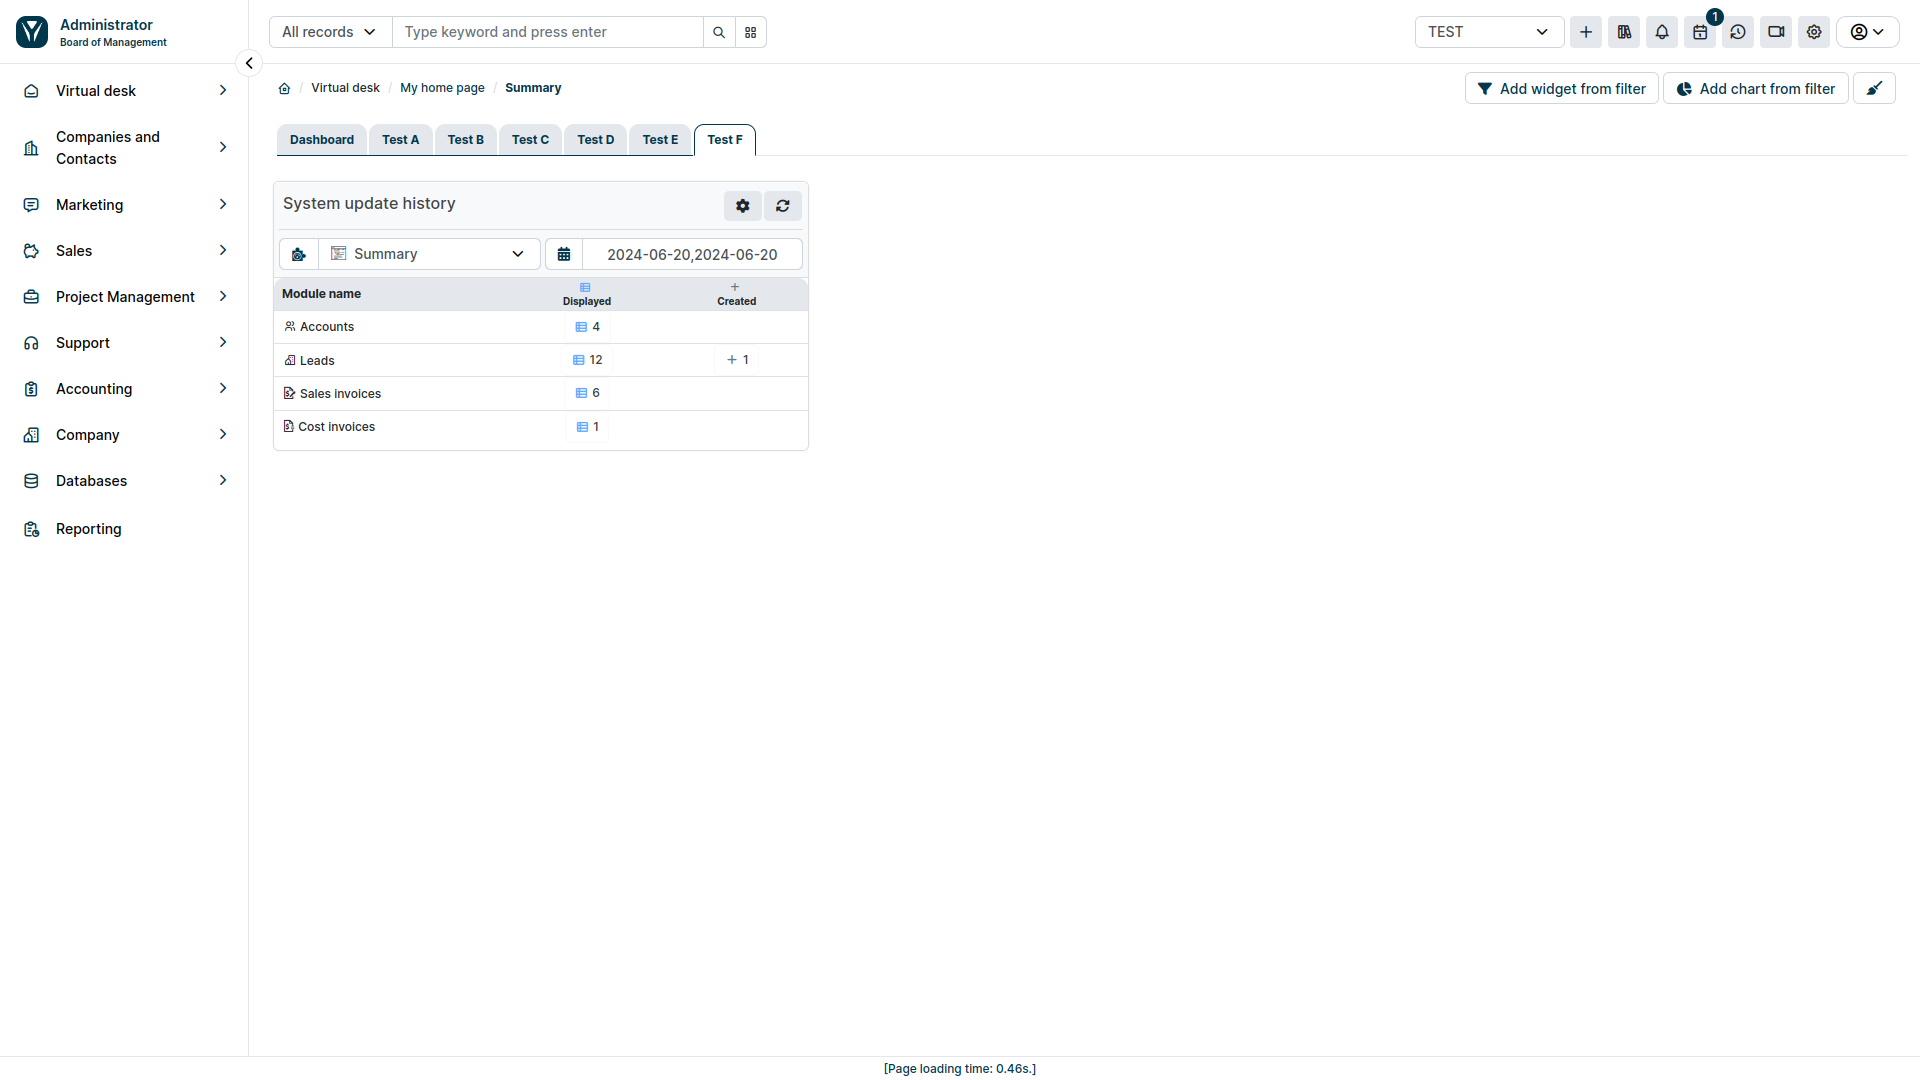
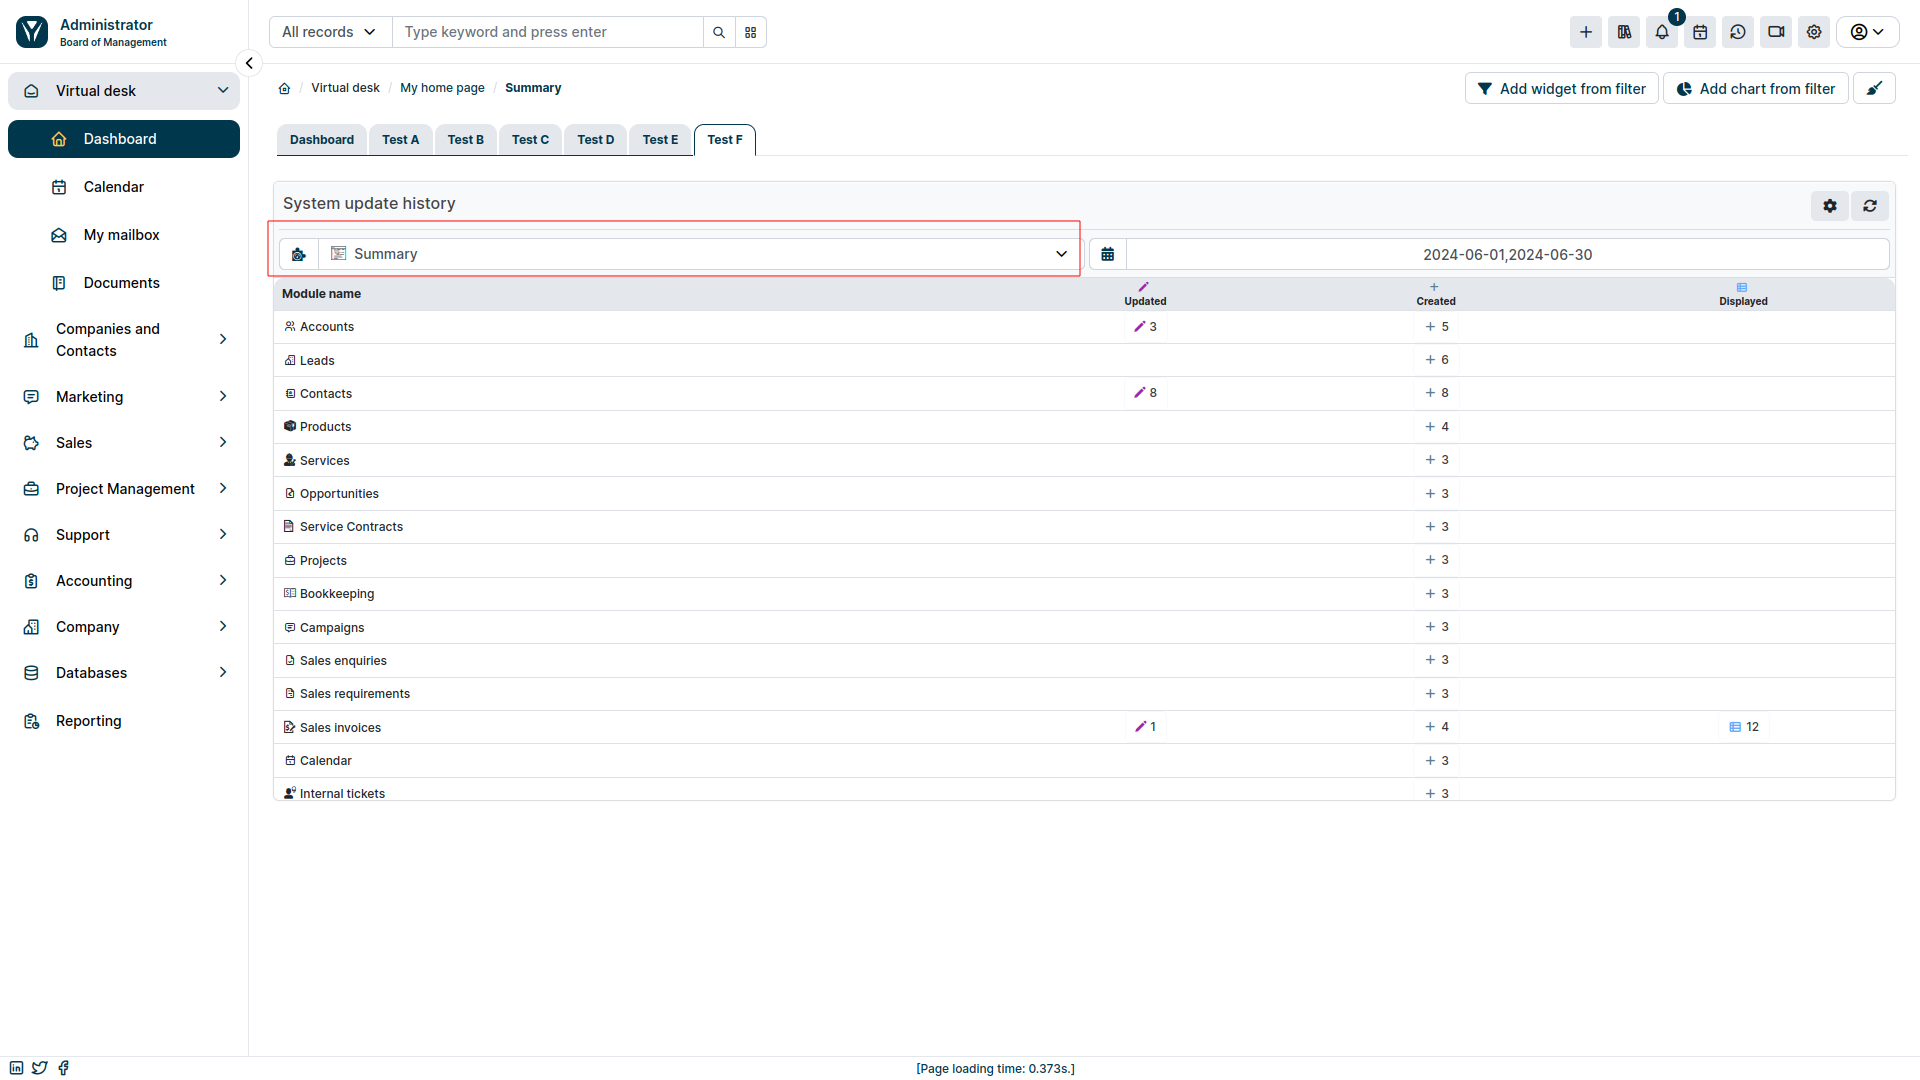
YD-22 widgety premium

diff --git a/i18n/pl/docusaurus-plugin-content-docs/current/3-administrator-guides/04-marketplace/02-addons/02-widgets-premium/README.md b/i18n/pl/docusaurus-plugin-content-docs/current/3-administrator-guides/04-marketplace/02-addons/02-widgets-premium/README.md
@@ -49,6 +49,16 @@ Pamiętaj by przy tworzeniu widżetu wybrać odpowiednią rolę oraz pulpit, na 
 
 ![widgets-3.jpg](widgets-3.jpg)
 
-Widżet **Historia aktualizacji systemu** jest już gotowy do użycia. W panelu użytkownika przejdź do Zakładki **Pulpit**,  gdzie pojawi się widżet. 
+Widżet **Historia aktualizacji systemu** jest już gotowy do użycia. W panelu użytkownika przejdź do Zakładki **Pulpit**,  gdzie pojawi się widżet.
+
+Pierwsza lista rozwijana pozwala nam wybrać moduł systemu, dla którego chcemy śledzić zmiany. Jeżeli z listy wybierzemy pozycję **Podsumowanie**, pojawi nam się historia aktualizacji w wybranym okresie dla całego systemu z podziałem na moduły.
 
 ![widgets-4.jpg](widgets-4.jpg)
+
+Wybierając natomiast z listy konkretny moduł, uzyskamy dodatkowe informacje, takie jak: kto wykonał akcję, na jakim rekordzie czy też z jakich danych na jakie zostały zmienione
+
+![widgets-5.jpg](widgets-5.jpg)
+
+W prawym górnym rogu widżetu znajduje się ikona trybika, pozwalająca ustawić wyświetlane przez niego dane. Możemy wybrać jakie akcje chcemy, żeby zostały wyśwetlone oraz z jakimi użytkownikami mają być one powiązane.
+
+![widgets-6.jpg](widgets-6.jpg)

diff --git a/docs/3-administrator-guides/04-marketplace/02-addons/02-widgets-premium/README.md b/docs/3-administrator-guides/04-marketplace/02-addons/02-widgets-premium/README.md
@@ -51,4 +51,16 @@ Pamiętaj by przy tworzeniu widżetu wybrać odpowiednią rolę oraz pulpit, na 
 
 Widżet **Historia aktualizacji systemu** jest już gotowy do użycia. W panelu użytkownika przejdź do Zakładki **Pulpit**,  gdzie pojawi się widżet. 
 
+Pierwsza lista rozwijana pozwala nam wybrać moduł systemu, dla którego chcemy śledzić zmiany. Jeżeli z listy wybierzemy pozycję **Podsumowanie**, pojawi nam się historia aktualizacji w wybranym okresie dla całego systemu z podziałem na moduły.
+
 ![widgets-4.jpg](widgets-4.jpg)
+
+Wybierając natomiast z listy konkretny moduł, uzyskamy dodatkowe informacje, takie jak: kto wykonał akcję, na jakim rekordzie czy też z jakich danych na jakie zostały zmienione
+
+![widgets-5.jpg](widgets-5.jpg)
+
+W prawym górnym rogu widżetu znajduje się ikona trybika, pozwalająca ustawić wyświetlane przez niego dane. Możemy wybrać jakie akcje chcemy, żeby zostały wyśwetlone oraz z jakimi użytkownikami mają być one powiązane.
+
+![widgets-6.jpg](widgets-6.jpg)
+
+
